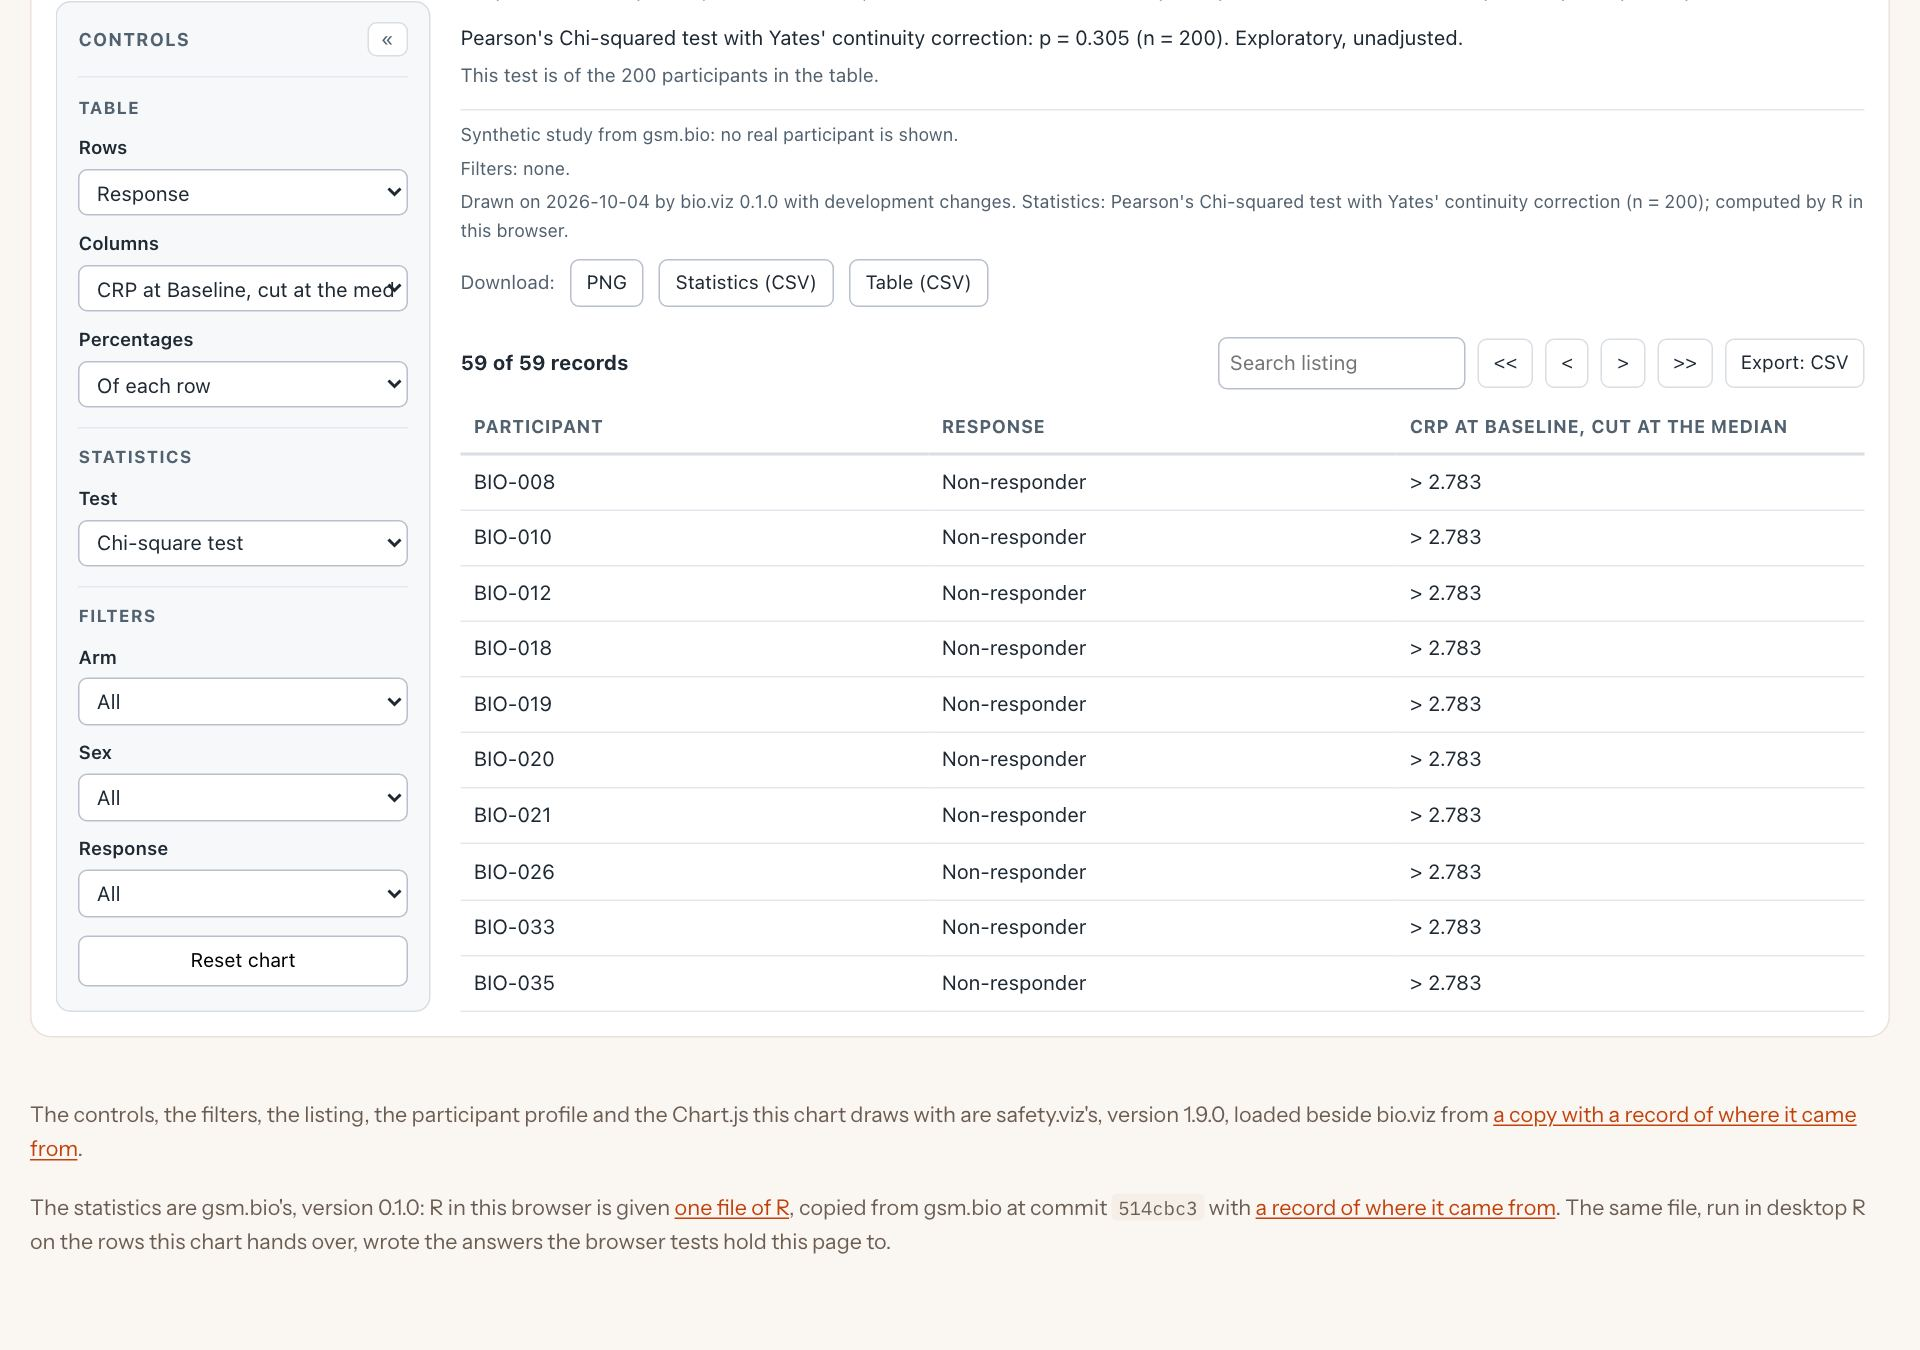
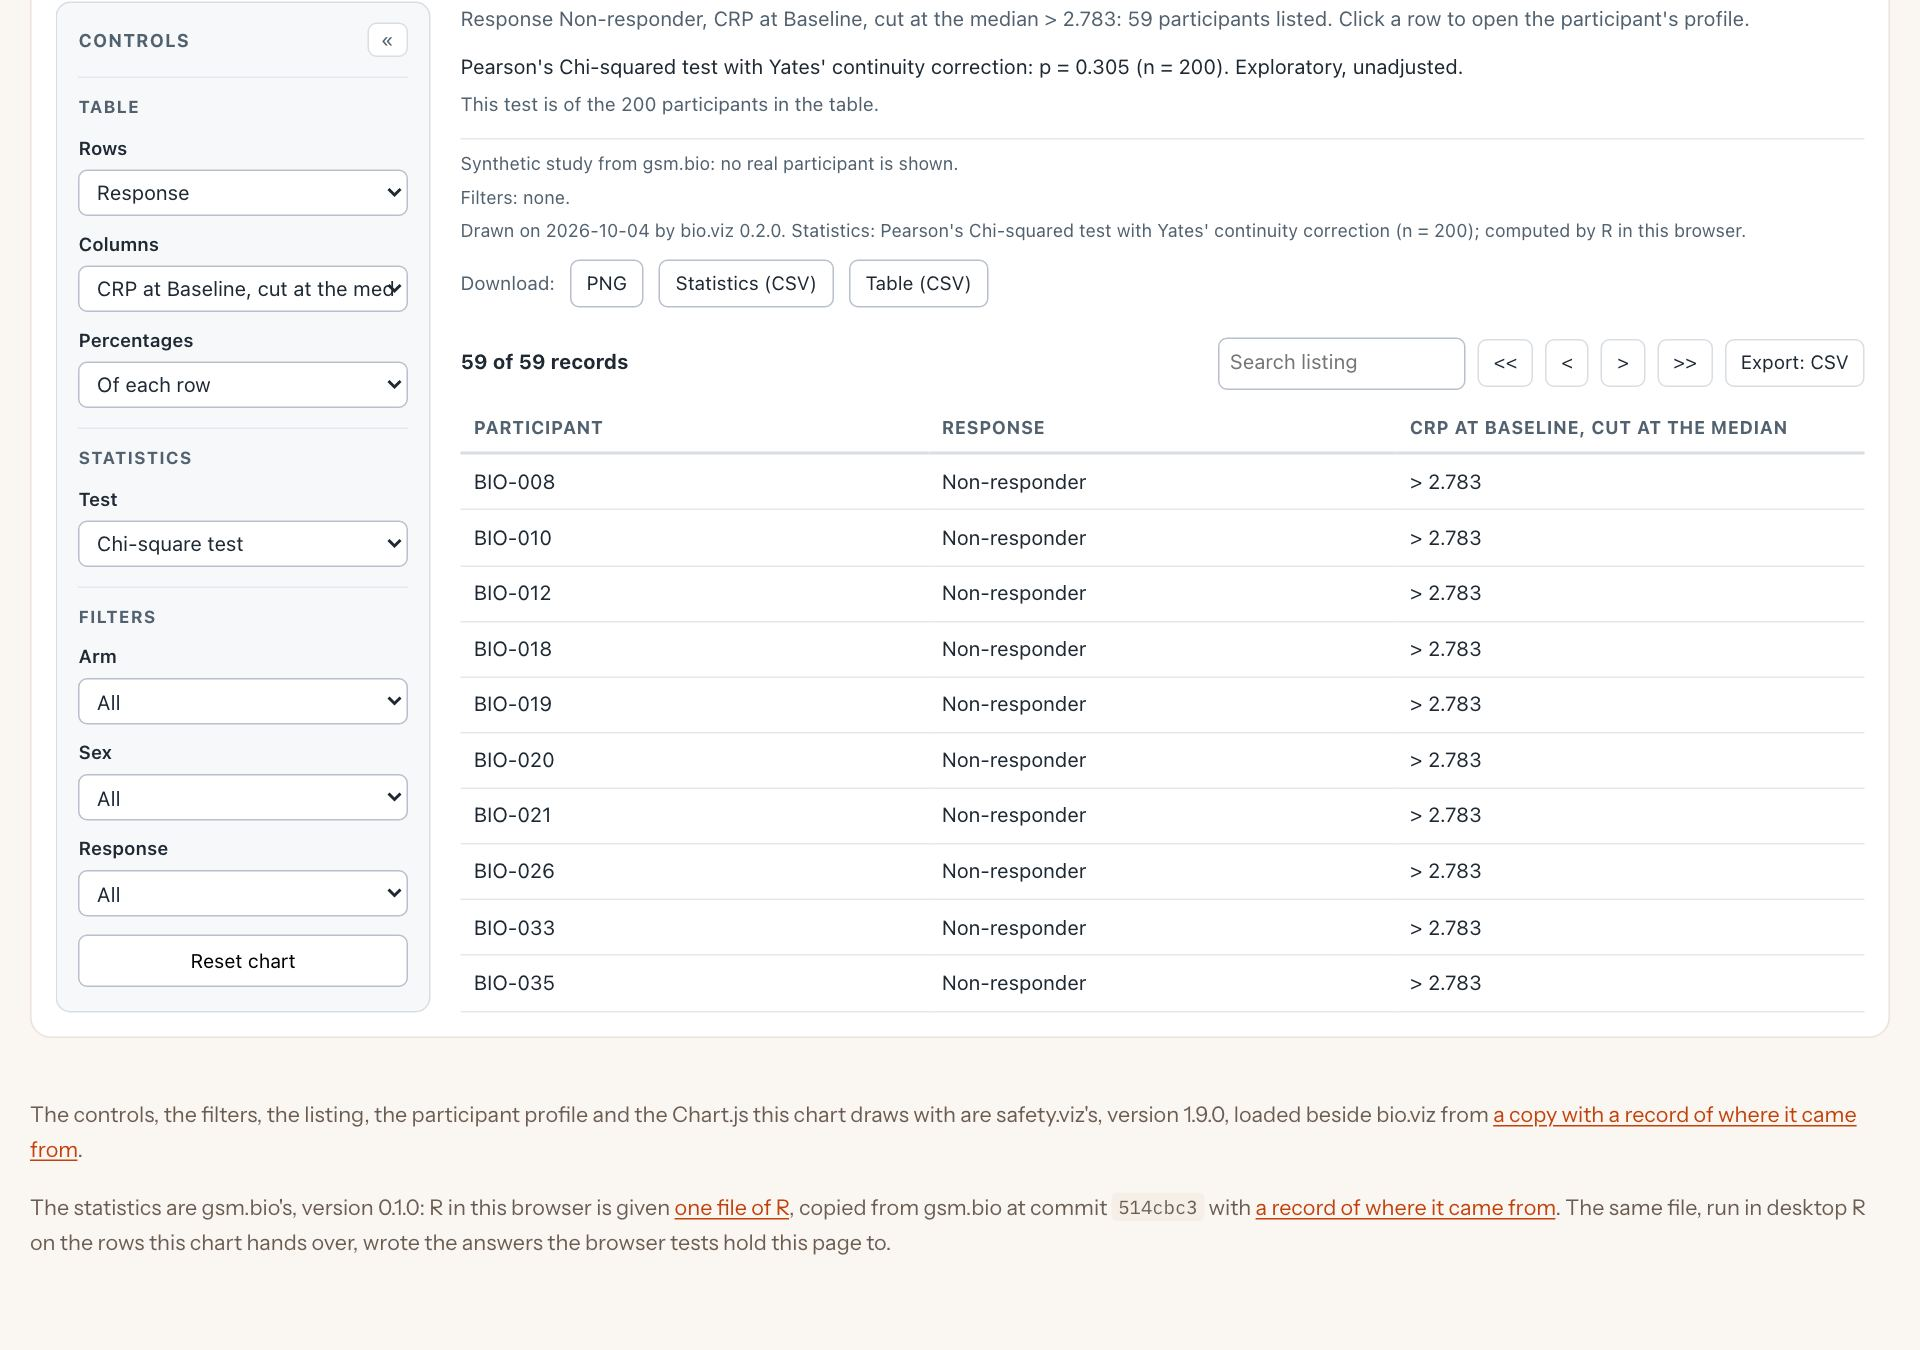
Re-capture the bio.viz stills of the v0.2.0 demo at bio.viz 8f188bf
bio.viz's release prep merged and the dev site was redeployed from
8f188bf, so the eight bio.viz stills are re-captured and their
footnotes read bio.viz 0.2.0. Every number read from the pages is
unchanged; check-numbers.mjs holds all 61 to desktop R. The fact strip
and the footnotes still's alt text name the new build. The three gsm.bio
stills wait for gsm.bio's release prep.

diff --git a/reports/biomarker-v0.2-demo/index.html b/reports/biomarker-v0.2-demo/index.html
@@ -169,7 +169,7 @@ footer a{color:var(--mute);border-bottom-color:var(--rule2)}
     <span><b>6</b> charts, <b>2</b> of them new</span>
     <span>in R: <b>6</b> widgets, <b>6</b> figures, <b>6</b> tables, RTF and a batch runner</span>
     <span>made-up study: <b>200</b> participants, <b>12</b> biomarkers, one survival endpoint</span>
-    <span>bio.viz <b>dev</b> at <a href="https://github.com/jwildfire/bio.viz/commit/f421a90">f421a90</a>, gsm.bio <b>dev</b> at <a href="https://github.com/jwildfire/gsm.bio/commit/7200def">7200def</a></span>
+    <span>bio.viz <b>dev</b> at <a href="https://github.com/jwildfire/bio.viz/commit/8f188bf">8f188bf</a>, gsm.bio <b>dev</b> at <a href="https://github.com/jwildfire/gsm.bio/commit/7200def">7200def</a></span>
   </p>
 
   <div class="note">
@@ -311,7 +311,7 @@ footer a{color:var(--mute);border-bottom-color:var(--rule2)}
   <p class="what">Everything a chart shows can now leave the browser and still say what it is. Each of the six charts takes a title, a subtitle and footnotes, written with placeholders the chart fills from the view it draws, and always adds a footnote of its own last. Under the footnotes are three downloads, and behind them a specification: the chart’s settings and filters as plain data, which rebuilds the same chart in a browser or in R.</p>
 
   <figure>
-    <div class="frame pad wide"><img src="media/footnotes.jpg" alt="The foot of the stratified survival chart: two footnotes the page set, Synthetic study from gsm.bio and Filters: none, then the chart's own, Drawn on 2026-10-04 by bio.viz 0.1.0 with development changes, with R's log-rank test and its counts, computed by R in this browser; then buttons for PNG, Statistics (CSV) and Table (CSV)." loading="lazy" width="1428" height="198"></div>
+    <div class="frame pad wide"><img src="media/footnotes.jpg" alt="The foot of the stratified survival chart: two footnotes the page set, Synthetic study from gsm.bio and Filters: none, then the chart's own, Drawn on 2026-10-04 by bio.viz 0.2.0, with R's log-rank test and its counts, computed by R in this browser; then buttons for PNG, Statistics (CSV) and Table (CSV)." loading="lazy" width="1428" height="198"></div>
     <p class="cap">The chart’s own footnote names the date, the bio.viz version, every method R used with its counts, and which R computed it. A build that is not a release says “with development changes”, so the footnote never names a release for code that is not one.</p>
   </figure>
 
@@ -560,7 +560,7 @@ htmlwidgets::saveWidget(w, "survival.html", selfcontained = TRUE)</code></pre>
 </section>
 
 <footer>
-  <p>Captures taken 2026-10-04 with Playwright in headless Chromium against the live dev deploys, running real webR in the browser: bio.viz <code>dev</code> built from f421a90, and gsm.bio <code>dev</code> at 7200def for the widgets, the batch run and the gallery. Every number on this page was read from the page or the file that shows it, and recomputed in desktop R with base R and the survival package alone, from the study’s three CSV files; the README records which. The study is gsm.bio’s made-up one: no real participant appears. Requirements: the cross-tabulation and the cut rule (<a href="https://github.com/jwildfire/obot.roadmap/issues/359">#359</a>); stratified survival and the screen’s hazard rows (<a href="https://github.com/jwildfire/obot.roadmap/issues/360">#360</a>); titles, footnotes, downloads and specifications (<a href="https://github.com/jwildfire/obot.roadmap/issues/361">#361</a>); static figures, RTF tables and batch runs (<a href="https://github.com/jwildfire/obot.roadmap/issues/362">#362</a>). Objective: biomarker charts with every test computed by R (<a href="https://github.com/jwildfire/obot.roadmap/issues/353">#353</a>).</p>
+  <p>Captures taken 2026-10-04 with Playwright in headless Chromium against the live dev deploys, running real webR in the browser: bio.viz <code>dev</code> built from 8f188bf, its v0.2.0 release preparation, and gsm.bio <code>dev</code> at 7200def for the widgets, the batch run and the gallery. Every number on this page was read from the page or the file that shows it, and recomputed in desktop R with base R and the survival package alone, from the study’s three CSV files; the README records which. The study is gsm.bio’s made-up one: no real participant appears. Requirements: the cross-tabulation and the cut rule (<a href="https://github.com/jwildfire/obot.roadmap/issues/359">#359</a>); stratified survival and the screen’s hazard rows (<a href="https://github.com/jwildfire/obot.roadmap/issues/360">#360</a>); titles, footnotes, downloads and specifications (<a href="https://github.com/jwildfire/obot.roadmap/issues/361">#361</a>); static figures, RTF tables and batch runs (<a href="https://github.com/jwildfire/obot.roadmap/issues/362">#362</a>). Objective: biomarker charts with every test computed by R (<a href="https://github.com/jwildfire/obot.roadmap/issues/353">#353</a>).</p>
   <p style="margin-top:12px">This page was drafted by Claude Code using Opus 5.5.</p>
 </footer>
 

diff --git a/reports/biomarker-v0.2-demo/README.md b/reports/biomarker-v0.2-demo/README.md
@@ -1,8 +1,8 @@
 # bio.viz and gsm.bio v0.2.0 — annotated demo
 
-The review surface for the second release candidates of the biomarker charts objective (hub [#353](https://github.com/jwildfire/obot.roadmap/issues/353)): bio.viz v0.2.0, the JavaScript chart library, and gsm.bio v0.2.0, the R package. This version of the page is captured before release prep (bio.viz [#75](https://github.com/jwildfire/bio.viz/issues/75), gsm.bio [#44](https://github.com/jwildfire/gsm.bio/issues/44)) has merged: the live bio.viz dev site was built from [`f421a90`](https://github.com/jwildfire/bio.viz/commit/f421a90) (the merge of bio.viz [#73](https://github.com/jwildfire/bio.viz/pull/73), as its own footer says), and gsm.bio `dev` was at [`7200def`](https://github.com/jwildfire/gsm.bio/commit/7200defe111f3535eed579f93c977a5eba0264d5) (the merge of gsm.bio [#42](https://github.com/jwildfire/gsm.bio/pull/42)), version `0.1.0.9000`. So every footnote in the stills reads "bio.viz 0.1.0 with development changes" or "gsm.bio 0.1.0.9000"; the stills that show a version are re-captured once release prep merges (list below).
+The review surface for the second release candidates of the biomarker charts objective (hub [#353](https://github.com/jwildfire/obot.roadmap/issues/353)): bio.viz v0.2.0, the JavaScript chart library, and gsm.bio v0.2.0, the R package. The bio.viz side is captured at bio.viz's release prep (bio.viz [#75](https://github.com/jwildfire/bio.viz/issues/75), merged as [`8f188bf`](https://github.com/jwildfire/bio.viz/commit/8f188bf), the merge of bio.viz [#76](https://github.com/jwildfire/bio.viz/pull/76)): the live dev site was built from `8f188bf` (its footer says so, and every demo page loads `dist/bio.viz-0.2.0/`), and every chart footnote reads "bio.viz 0.2.0". The gsm.bio side is not yet: gsm.bio's release prep (gsm.bio [#44](https://github.com/jwildfire/gsm.bio/issues/44), PR [#45](https://github.com/jwildfire/gsm.bio/pull/45)) is re-copying bio.viz 0.2.0, so the widget, the batch run and the gallery are still from gsm.bio `dev` at [`7200def`](https://github.com/jwildfire/gsm.bio/commit/7200defe111f3535eed579f93c977a5eba0264d5) (the merge of gsm.bio [#42](https://github.com/jwildfire/gsm.bio/pull/42)), version `0.1.0.9000`, carrying bio.viz from before its release prep. Those three stills, the specifications the batch ran on and the gsm.bio text are re-made once it merges (list below).
 
-The bio.viz dev site vendors safety.viz 1.9.0 and gsm.bio's statistics file from gsm.bio `514cbc3` (sha256 `ca87eee2…`, the same file gsm.bio `7200def` ships at `inst/statistics/statistics.R`).
+The bio.viz dev site vendors safety.viz 1.9.0 and gsm.bio's statistics file from gsm.bio `514cbc3` (the site's footer still calls it "gsm.bio's, version 0.1.0", which is the release that file comes from) (sha256 `ca87eee2…`, the same file gsm.bio `7200def` ships at `inst/statistics/statistics.R`).
 
 Requirements it walks: the cross-tabulation and the cut rule (hub [#359](https://github.com/jwildfire/obot.roadmap/issues/359)), stratified survival and the screen's hazard rows (hub [#360](https://github.com/jwildfire/obot.roadmap/issues/360)), results out of the browser (hub [#361](https://github.com/jwildfire/obot.roadmap/issues/361)) and results out of R (hub [#362](https://github.com/jwildfire/obot.roadmap/issues/362)).
 
@@ -17,10 +17,13 @@ Run in this order, from this folder, with a scratch folder `$S`:
 3. Move the two widget pages alone into `$S/widgets/` (so nothing beside them can be loaded), then `ONLY=5 node capture.mjs . $S`. It opens each widget from disk in a browser context with `offline: true` and records every request other than the page itself (`widgets_network_requests`: none). It reads the CRP RTF table back from the file's cells (`rtf_rows`), and captures the live gsm.bio gallery.
 4. `sips` converts two files to the JPEGs in `media/`: the batch figure `$S/batch/01-stratified-survival-crp.png` → `batch-figure.jpg` (full size), and the downloaded PNG `$S/survival.png` → `downloaded-png.jpg` (resampled to 1,200 wide).
 5. `Rscript desktop-r.R <gsm.bio>/inst/extdata desktop-r.json` — recomputes every number below from the three CSV files with base R and the survival package alone. No gsm.bio function is called; jsonlite only writes the answers. R 4.3.3, survival 3.5.8.
+6. `node check-numbers.mjs` — formats each desktop-R value as the chart prints it and looks for it in the text the live page showed (`capture-numbers.json`): 61 checks, covering the cross-tabulation, both survival views, the screen row opened, all 12 screen rows and their order, and the two CSV downloads. 0 failed at `8f188bf`.
 
 An RTF still was tried and dropped: macOS's text system (`textutil`) and pandoc both misread r2rtf's table rows, and Pages would not export unattended, so the page prints the RTF's cells as a table instead, read back from the file.
 
-Captured 2026-10-04: sections 1–3 from 18:51 UTC, section 4 at 18:45, section 5 at 18:49; widgets and batch made at 18:46 (`captured_at`, the run start of each section).
+Captured 2026-10-04: sections 1–4 (the bio.viz stills) at 20:13 UTC against `8f188bf`; section 5 at 18:49, and the widgets and batch made at 18:46, from gsm.bio `7200def` (`captured_at`, the run start of each section).
+
+History. The first capture (sections 1–3 at 18:51, section 4 at 18:45 UTC) was of the dev site built from `f421a90`, before bio.viz's release prep, and its footnotes read "bio.viz 0.1.0 with development changes". The bio.viz stills were re-captured at `8f188bf`. What changed: the version in each footnote, in the PNG's text chunks (`Software` now `bio.viz 0.2.0`) and in the specification (`bio_viz_version` `0.2.0`), and the PNG's size, 473,153 to 470,205 bytes. Every number in `capture-numbers.json` came out the same, and `check-numbers.mjs` holds them to desktop R. The committed `spec-*.json` are still the ones the batch ran on, written at `f421a90` with `bio_viz_version` `0.1.0`; they are replaced when the batch is run again at gsm.bio's release prep.
 
 ## Every number on the page, and where it came from
 
@@ -57,17 +60,17 @@ Captured 2026-10-04: sections 1–3 from 18:51 UTC, section 4 at 18:45, section 
 
 | File | Shows | Shows a version? |
 |---|---|---|
-| `crosstab.jpg` | Response by CRP cut at its median, R's chi-square, footnotes | yes, bio.viz |
-| `crosstab-listing.jpg` | The 59 participants of one cell listed (page footer text included) | yes, bio.viz, and the site's footer ("version 0.1.0") |
-| `survival.jpg` | Stratified survival at the median | yes, bio.viz |
-| `survival-dragged.jpg` | The cut dragged to 4.34, R's answer for it | yes, bio.viz |
-| `screen-hazard.jpg` | The screen's hazard-ratio rows at Baseline | yes, bio.viz |
-| `screen-hazard-drill.jpg` | The CRP row opened in the survival chart | yes, bio.viz |
-| `footnotes.jpg` | The footnotes and the download buttons | yes, bio.viz |
-| `downloaded-png.jpg` | The PNG the button saved | yes, bio.viz |
-| `widget-survival.jpg` | The saved survival widget, offline | yes, bio.viz and gsm.bio |
-| `gallery.jpg` | The gsm.bio gallery's survival pair | yes, gsm.bio (built in CI on R 4.6.1) |
-| `batch-figure.jpg` | One batch figure | yes, gsm.bio |
+| `crosstab.jpg` | Response by CRP cut at its median, R's chi-square, footnotes | bio.viz 0.2.0, re-captured at `8f188bf` |
+| `crosstab-listing.jpg` | The 59 participants of one cell listed (page footer text included) | bio.viz 0.2.0, re-captured at `8f188bf` |
+| `survival.jpg` | Stratified survival at the median | bio.viz 0.2.0, re-captured at `8f188bf` |
+| `survival-dragged.jpg` | The cut dragged to 4.34, R's answer for it | bio.viz 0.2.0, re-captured at `8f188bf` |
+| `screen-hazard.jpg` | The screen's hazard-ratio rows at Baseline | bio.viz 0.2.0, re-captured at `8f188bf` |
+| `screen-hazard-drill.jpg` | The CRP row opened in the survival chart | bio.viz 0.2.0, re-captured at `8f188bf` |
+| `footnotes.jpg` | The footnotes and the download buttons | bio.viz 0.2.0, re-captured at `8f188bf` |
+| `downloaded-png.jpg` | The PNG the button saved | bio.viz 0.2.0, re-captured at `8f188bf` |
+| `widget-survival.jpg` | The saved survival widget, offline | gsm.bio 0.1.0.9000 and pre-release bio.viz: to re-capture |
+| `gallery.jpg` | The gsm.bio gallery's survival pair | gsm.bio 0.1.0.9000 (built in CI on R 4.6.1): to re-capture |
+| `batch-figure.jpg` | One batch figure | gsm.bio 0.1.0.9000: to re-capture |
 
 The page text quotes "gsm.bio 0.1.0.9000" in the RTF footnote caption and the figure's alt text; those change with the recapture too.
 
